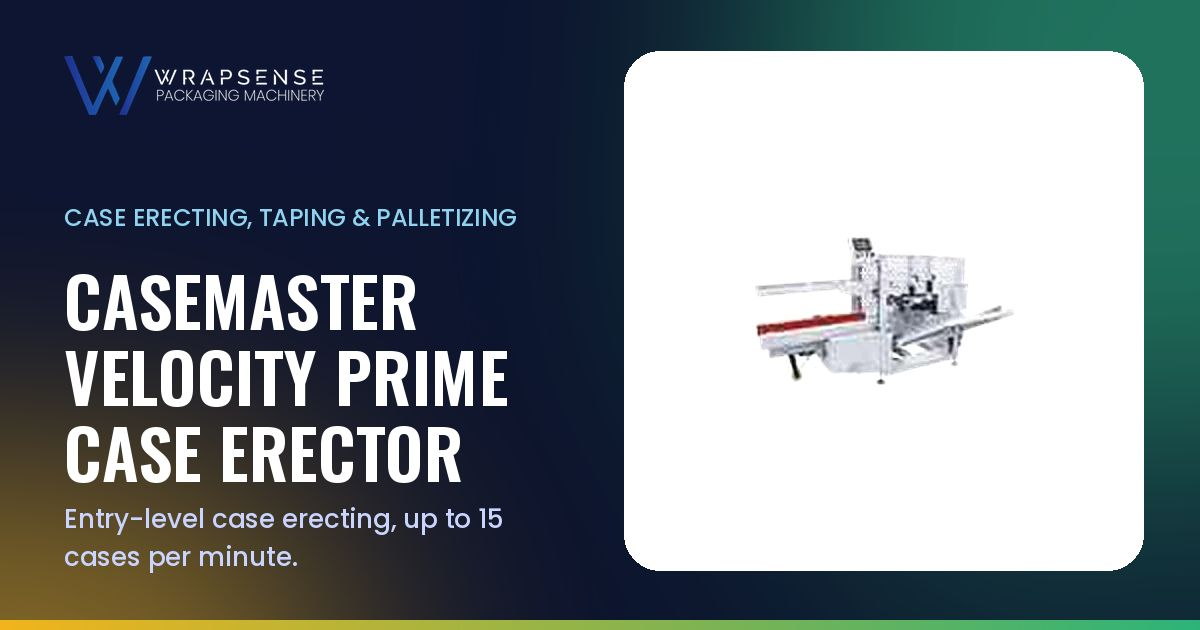
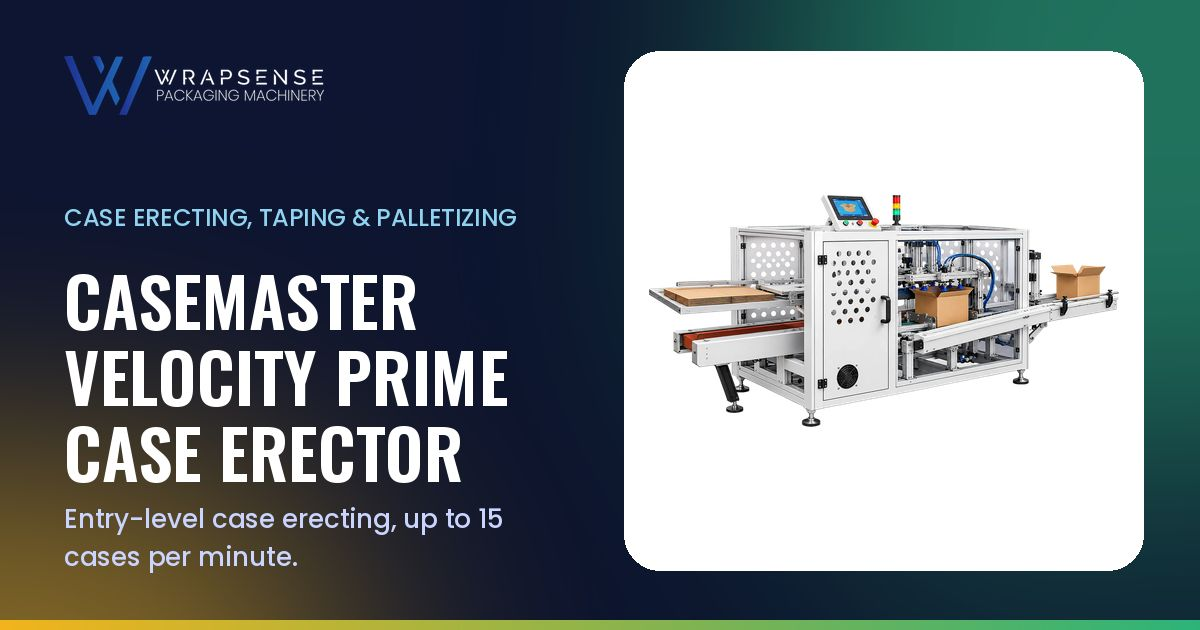
CaseMaster Velocity Prime: new render; blurry case-erector photo removed
- New render cut out from white (pure-white background vetoed by the AI mask so the white-painted frame
  stays; perforation holes see-through; floor shadow removed), 1600x791 WebP with alpha; same filename;
  OG images regenerated
- Removed the blurry video-still case-erector photo from the gallery, deleted it and dropped it from the
  catalog extraction script

Claude-Session: https://claude.ai/code/session_01QFn2KCFGMPNr5c9DCf1rvZ

Changed region(s): [[0.5242, 0.3016, 0.9558, 0.6937]]

diff --git a/tools/extract-catalog-images.py b/tools/extract-catalog-images.py
@@ -38,7 +38,6 @@ MAP = {
   # photos
   0:('photos','film-line','photo'), 3:('photos','filling-closeup','photo'), 4:('photos','technician','photo'),
   123:('photos','weigher-snacks','photo'), 125:('photos','weigher-install','photo'), 128:('photos','vffs-install','photo'),
-  181:('photos','case-erector-action','photo'),
   206:('photos','case-packing-action','photo'), 204:('photos','case-packing-line','photo'), 251:('photos','weigher-detail','photo'),
 }
 
